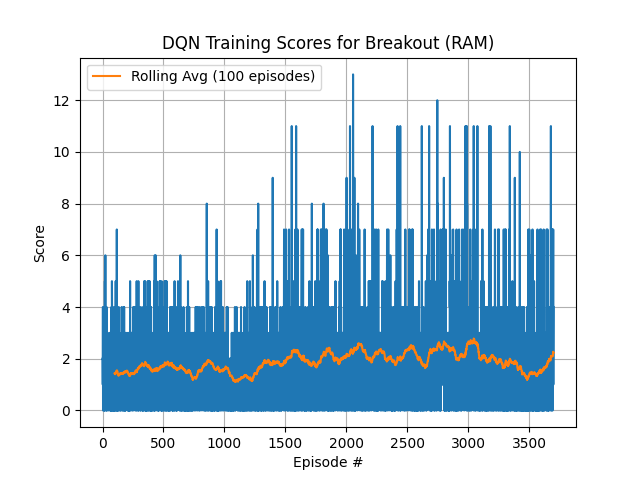
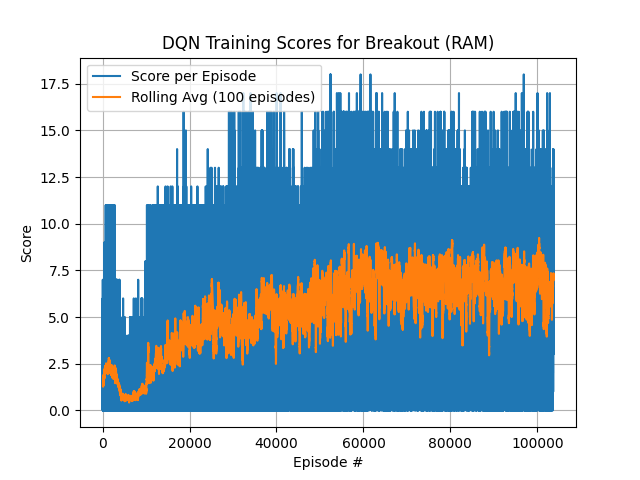
updated hyperparms

diff --git a/train.py b/train.py
@@ -9,15 +9,14 @@ import matplotlib.pyplot as plt
 from tqdm import tqdm
 from dqn_agent import DQNAgent
 
-N_EPISODES = 20000
-MAX_T = 1000
+N_EPISODES = 1_000_000
+MAX_T = 500
 EPS_START = 1.0
 EPS_END = 0.01
 EPS_DECAY = 0.999
-SCORE_SOLVED = 30.0
+SCORE_SOLVED = 100.0
 PRINT_EVERY = 100
 SAVE_EVERY = 500
-
 
 env = gym.make('ALE/Breakout-ram-v5', render_mode=None)
 state_size = env.observation_space.shape[0]
@@ -25,9 +24,9 @@ action_size = env.action_space.n
 print(f'State size: {state_size}, Action size: {action_size}')
 
 agent = DQNAgent(state_size=state_size, action_size=action_size, seed=0)
-gi
 scores = []
 scores_window = deque(maxlen=100)
+episode_losses = []  # to store the average loss per episode
 eps = EPS_START
 
 print("\nStarting Training...")
@@ -37,11 +36,15 @@ for i_episode in tqdm(range(1, N_EPISODES + 1), desc="Training Progress"):
     terminated = False
     truncated = False
     timestep = 0
+    losses_episode = []  # losses for this episode
 
     while not terminated and not truncated and timestep < MAX_T:
         action = agent.act(state, eps)
         next_state, reward, terminated, truncated, info = env.step(action)
-        agent.step(state, action, reward, next_state, terminated or truncated)
+        # Assume agent.step returns a loss value (or None if no training update)
+        loss = agent.step(state, action, reward, next_state, terminated or truncated)
+        if loss is not None:
+            losses_episode.append(loss)
         state = next_state
         score += reward
         timestep += 1
@@ -50,10 +53,14 @@ for i_episode in tqdm(range(1, N_EPISODES + 1), desc="Training Progress"):
 
     scores_window.append(score)
     scores.append(score)
+    # Record the average loss for the episode (or NaN if no loss was recorded)
+    avg_loss = np.mean(losses_episode) if len(losses_episode) > 0 else np.nan
+    episode_losses.append(avg_loss)
     eps = max(EPS_END, EPS_DECAY * eps)
 
     if i_episode % PRINT_EVERY == 0:
-        print(f'\rEpisode {i_episode}\tAverage Score: {np.mean(scores_window):.2f}\tEpsilon: {eps:.4f}')
+        print(f'\rEpisode {i_episode}\tAverage Score: {np.mean(scores_window):.2f}\t'
+              f'Epsilon: {eps:.4f}\tAvg Loss: {avg_loss if not np.isnan(avg_loss) else "N/A"}')
 
     if i_episode % SAVE_EVERY == 0:
         agent.save(f"dqn_breakout_ram_episode_{i_episode}.pth")
@@ -62,13 +69,27 @@ for i_episode in tqdm(range(1, N_EPISODES + 1), desc="Training Progress"):
         print(f'\nEnvironment solved in {i_episode:d} episodes!\tAverage Score: {np.mean(scores_window):.2f}')
         agent.save("dqn_breakout_ram_solved.pth")
         break
+
+    # Plot scores and loss every 100 episodes for monitoring
     if i_episode % 100 == 0:
+        # Plot loss
+        fig_loss = plt.figure()
+        ax_loss = fig_loss.add_subplot(111)
+        # Note: some episodes might not have a training loss, so they appear as NaN.
+        plt.plot(np.arange(len(episode_losses)), episode_losses, label='Average Loss per Episode')
+        plt.ylabel('Loss')
+        plt.xlabel('Episode #')
+        plt.title('DQN Training Loss for Breakout (RAM)')
+        plt.legend()
+        plt.grid(True)
+        plt.savefig('training_loss_breakout_ram.png')
+        plt.show()
+        # Plot scores
         fig = plt.figure()
         ax = fig.add_subplot(111)
-        plt.plot(np.arange(len(scores)), scores)
+        plt.plot(np.arange(len(scores)), scores, label='Score per Episode')
         rolling_avg = np.convolve(scores, np.ones(100) / 100, mode='valid')
-        plt.plot(np.arange(len(rolling_avg)) + 99, rolling_avg,
-                 label='Rolling Avg (100 episodes)')
+        plt.plot(np.arange(len(rolling_avg)) + 99, rolling_avg, label='Rolling Avg (100 episodes)')
         plt.ylabel('Score')
         plt.xlabel('Episode #')
         plt.title('DQN Training Scores for Breakout (RAM)')
@@ -77,15 +98,17 @@ for i_episode in tqdm(range(1, N_EPISODES + 1), desc="Training Progress"):
         plt.savefig('training_scores_breakout_ram.png')
         plt.show()
 
+
+
 # Save final model
 agent.save("dqn_breakout_ram_final.pth")
 env.close()
 print("Training finished.")
 
-
+# Final score plot
 fig = plt.figure()
 ax = fig.add_subplot(111)
-plt.plot(np.arange(len(scores)), scores)
+plt.plot(np.arange(len(scores)), scores, label='Score per Episode')
 rolling_avg = np.convolve(scores, np.ones(100)/100, mode='valid')
 plt.plot(np.arange(len(rolling_avg)) + 99, rolling_avg, label='Rolling Avg (100 episodes)')
 plt.ylabel('Score')
@@ -95,3 +118,15 @@ plt.legend()
 plt.grid(True)
 plt.savefig('training_scores_breakout_ram.png')
 print("Score plot saved as training_scores_breakout_ram.png")
+
+# Final loss plot
+fig_loss = plt.figure()
+ax_loss = fig_loss.add_subplot(111)
+plt.plot(np.arange(len(episode_losses)), episode_losses, label='Average Loss per Episode')
+plt.ylabel('Loss')
+plt.xlabel('Episode #')
+plt.title('DQN Training Loss for Breakout (RAM)')
+plt.legend()
+plt.grid(True)
+plt.savefig('training_loss_breakout_ram.png')
+print("Loss plot saved as training_loss_breakout_ram.png")

diff --git a/dqn_agent.py b/dqn_agent.py
@@ -10,8 +10,8 @@ from replay_buffer import ReplayBuffer
 
 BUFFER_SIZE = int(1e5)
 BATCH_SIZE = 32
-GAMMA = 0.9
-LR = 1e-3
+GAMMA = 0.99
+LR = 1e-4
 TARGET_UPDATE_EVERY = 100
 
 class DQNAgent():
@@ -39,10 +39,13 @@ class DQNAgent():
         self.memory.add(state, action, reward, next_state, done)
 
         self.t_step = (self.t_step + 1) % TARGET_UPDATE_EVERY
+        loss = None
         if self.t_step == 0:
             if len(self.memory) > BATCH_SIZE:
                 experiences = self.memory.sample()
-                self.learn(experiences, GAMMA)
+                # Capture the loss returned by learn()
+                loss = self.learn(experiences, GAMMA)
+        return loss
 
     def act(self, state, eps=0.):
         state = torch.from_numpy(state).float().unsqueeze(0).to(self.device)
@@ -66,14 +69,16 @@ class DQNAgent():
         loss = F.mse_loss(Q_expected, Q_targets)
         self.optimizer.zero_grad()
         loss.backward()
-
         self.optimizer.step()
 
         self.soft_update(self.qnetwork_local, self.qnetwork_target)
 
+        # Return the loss as a scalar value (using .item())
+        return loss.item()
+
     def soft_update(self, local_model, target_model, tau=1e-3):
         for target_param, local_param in zip(target_model.parameters(), local_model.parameters()):
-            target_param.data.copy_(tau*local_param.data + (1.0-tau)*target_param.data)
+            target_param.data.copy_(tau * local_param.data + (1.0 - tau) * target_param.data)
 
     def save(self, filename="dqn_breakout_ram.pth"):
         torch.save(self.qnetwork_local.state_dict(), filename)
